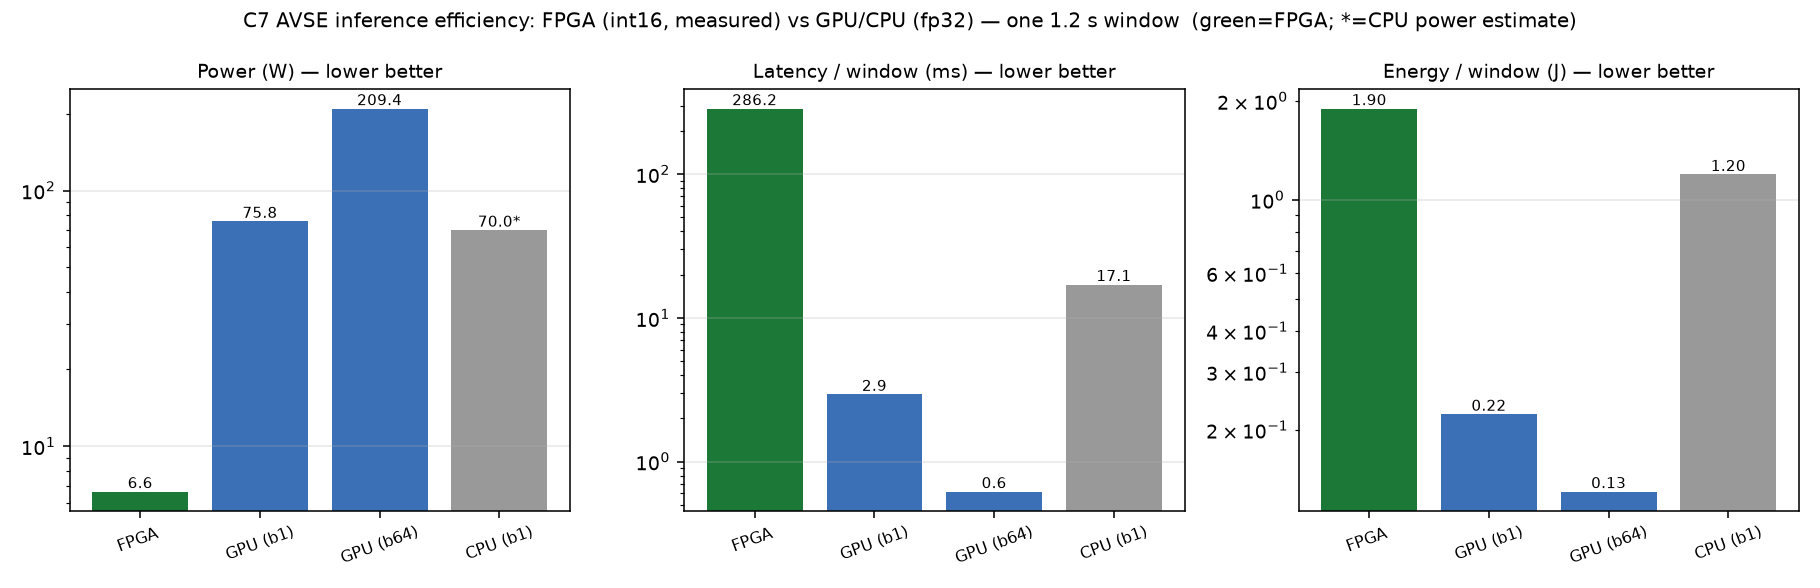
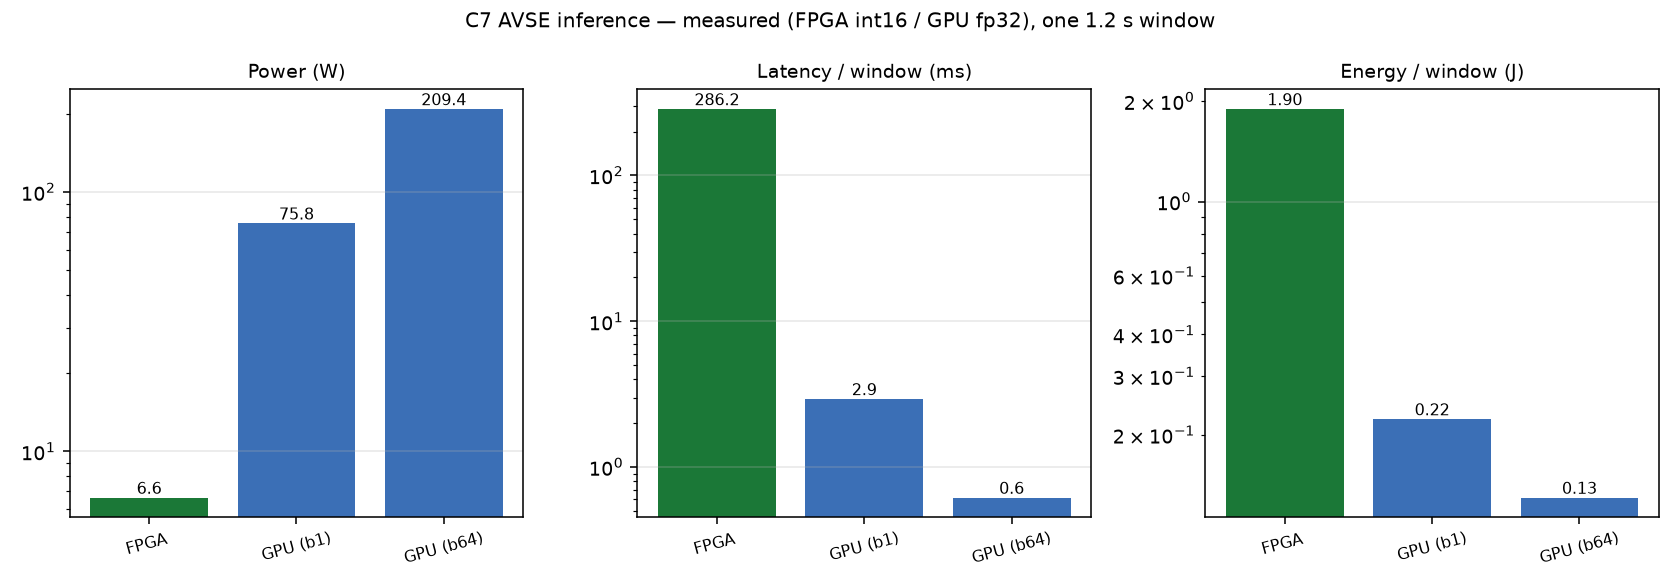
power: strip to measured data only (remove verdicts/derivations/estimates)
Per owner directive: uploaded files + records show objective measured data only.
Removed the verdict/comparison prose, the derived "always-on single-stream" scenario,
the host-idle and CPU-power estimates. README/REGISTRY/figure now: measured latency,
throughput, real-time factor, power (FPGA board INA220 / GPU card NVML), energy/window,
perf/W. CPU power not measured -> left blank. Figure = the 3 measured-power platforms.

diff --git a/tools/summarize_efficiency.py b/tools/summarize_efficiency.py
@@ -1,15 +1,10 @@
-"""summarize_efficiency.py — cross-platform power/efficiency table + figure for the C7 AVSE.
+"""summarize_efficiency.py — cross-platform measured data table + figure for the C7 AVSE.
 
 Reads the per-platform JSONs in experiments/power_efficiency/ (bench_cuda_b1, bench_cuda_b64, bench_cpu_b1
-from bench_inference.py; bench_fpga from the board's bench_fpga_power.py) and produces:
-  - a printed comparison table (latency / throughput / real-time factor / power / energy-per-window /
-    energy-per-audio-second / perf-per-watt),
-  - a device-level + a system-level (host-included) view, and
-  - efficiency.png (power, latency, energy bars, log scale).
-
-Power scopes (stated honestly): FPGA = whole RFSoC board incl. PS+DDR (INA220 measured); GPU = card only
-(NVML measured); CPU = package (ESTIMATED — Windows exposes no CPU power telemetry here). The CPU power and
-the host-power for the system-level view are explicit assumptions, flagged as such.
+from bench_inference.py; bench_fpga from the board's bench_fpga_power.py) and prints/plots the MEASURED
+numbers only: latency, throughput, real-time factor, power, energy-per-window, energy-per-audio-second,
+perf-per-watt. No estimates, no derived scenarios. Power: FPGA = whole board (INA220), GPU = card (NVML),
+CPU = not measured.
 """
 import argparse, json, sys
 from pathlib import Path
@@ -25,8 +20,6 @@ AUDIO_S = 19200 / 16000.0
 def main():
     ap = argparse.ArgumentParser()
     ap.add_argument("--dir", default=str(REPO / "experiments/power_efficiency"))
-    ap.add_argument("--cpu-power-w", type=float, default=70.0, help="ESTIMATE for CPU package power (W)")
-    ap.add_argument("--host-idle-w", type=float, default=70.0, help="ESTIMATE host idle power for GPU/CPU system view (W)")
     args = ap.parse_args()
     d = Path(args.dir)
 
@@ -34,96 +27,63 @@ def main():
         p = d / f"{name}.json"
         return json.load(open(p)) if p.exists() else None
 
+    specs = [("fpga", "FPGA RFSoC 4x2", "int16"),
+             ("cuda_b1", "GPU RTX 5070 Ti (b1)", "fp32"),
+             ("cuda_b64", "GPU RTX 5070 Ti (b64)", "fp32"),
+             ("cpu_b1", "CPU i5-14600KF (b1)", "fp32")]
     rows = []
-    specs = [("fpga", "FPGA RFSoC 4x2", "int16", False),
-             ("cuda_b1", "GPU RTX 5070 Ti (b1)", "fp32", False),
-             ("cuda_b64", "GPU RTX 5070 Ti (b64)", "fp32", False),
-             ("cpu_b1", "CPU i5-14600KF (b1)", "fp32", True)]
-    for key, label, prec, is_cpu in specs:
+    for key, label, prec in specs:
         r = load("bench_" + key)
         if not r:
             print(f"NOTE: missing bench_{key}.json (skipped)"); continue
         lat = r["latency_ms_per_window"]; thr = r["throughput_win_per_s"]; rt = r["realtime_factor"]
-        if r.get("power_w") is not None:
-            pw = r["power_w"]; pw_measured = True
-        else:
-            pw = args.cpu_power_w; pw_measured = False     # CPU estimate
-        e_win = pw * (lat / 1000.0)                          # J/window (device-level)
+        pw = r.get("power_w")                                # None for CPU (not measured)
+        e_win = (pw * (lat / 1000.0)) if pw is not None else None
         rows.append({"label": label, "prec": prec, "lat_ms": lat, "thr": thr, "rt": rt,
-                     "power_w": pw, "power_measured": pw_measured, "e_win_j": e_win,
-                     "e_audio_j": e_win / AUDIO_S, "perf_per_w": thr / pw,
-                     "idle_w": r.get("idle_power_w"), "dyn_w": r.get("dynamic_power_w"),
-                     "is_cpu": is_cpu, "is_fpga": key == "fpga"})
+                     "power_w": pw, "e_win_j": e_win,
+                     "e_audio_j": (e_win / AUDIO_S) if e_win is not None else None,
+                     "perf_per_w": (thr / pw) if pw is not None else None,
+                     "idle_w": r.get("idle_power_w"), "active_w": r.get("power_w"),
+                     "dyn_w": r.get("dynamic_power_w"), "per_rail_w": r.get("per_rail_active_w"),
+                     "is_fpga": key == "fpga"})
 
-    # ---- device-level table ----
-    print("\n================= DEVICE-LEVEL (power scope differs — see notes) =================")
-    h = f"{'platform':22s}{'prec':6s}{'lat/win':>10s}{'win/s':>9s}{'xRT':>8s}{'power_W':>9s}{'J/win':>8s}{'J/audio-s':>11s}{'win/s/W':>9s}"
+    def cell(v, fmt):
+        return (fmt.format(v)) if v is not None else "—"
+
+    print("\n===== MEASURED (FPGA power = whole board / INA220; GPU power = card / NVML; CPU power = not measured) =====")
+    h = (f"{'platform':22s}{'prec':6s}{'lat/win':>10s}{'win/s':>9s}{'xRT':>8s}"
+         f"{'power_W':>9s}{'J/win':>8s}{'J/audio-s':>11s}{'win/s/W':>9s}")
     print(h); print("-" * len(h))
     for r in rows:
-        pw = f"{r['power_w']:.1f}" + ("" if r["power_measured"] else "*")
-        print(f"{r['label']:22s}{r['prec']:6s}{r['lat_ms']:>9.2f}m{r['thr']:>9.1f}{r['rt']:>8.1f}{pw:>9s}"
-              f"{r['e_win_j']:>8.2f}{r['e_audio_j']:>11.3f}{r['perf_per_w']:>9.2f}")
-    print("* CPU power is an ESTIMATE (no telemetry); all others measured (FPGA=INA220 board, GPU=NVML card).")
-
+        print(f"{r['label']:22s}{r['prec']:6s}{r['lat_ms']:>9.2f}m{r['thr']:>9.1f}{r['rt']:>8.1f}"
+              f"{cell(r['power_w'], '{:.1f}'):>9s}{cell(r['e_win_j'], '{:.2f}'):>8s}"
+              f"{cell(r['e_audio_j'], '{:.3f}'):>11s}{cell(r['perf_per_w'], '{:.2f}'):>9s}")
     fpga = next((r for r in rows if r["is_fpga"]), None)
     if fpga:
-        print(f"\nFPGA detail: idle {fpga['idle_w']:.2f} W, active {fpga['power_w']:.2f} W "
-              f"(dynamic +{fpga['dyn_w']:.2f} W) → dynamic energy {fpga['dyn_w']*fpga['lat_ms']/1000*1000:.0f} mJ/win.")
+        print(f"\nFPGA power rails: idle {fpga['idle_w']:.2f} W, active {fpga['active_w']:.2f} W, "
+              f"dynamic +{fpga['dyn_w']:.2f} W.")
+        if fpga["per_rail_w"]:
+            print("  per-rail active (W): " + ", ".join(f"{k}={v:.2f}" for k, v in fpga["per_rail_w"].items()))
 
-    # ---- system-level (host included for GPU/CPU) ----
-    print("\n================= SYSTEM-LEVEL (GPU/CPU need a host ≈ +{:.0f} W; FPGA is standalone) =========".format(args.host_idle_w))
-    for r in rows:
-        sys_w = r["power_w"] if r["is_fpga"] else r["power_w"] + args.host_idle_w
-        sys_e = sys_w * (r["lat_ms"] / 1000.0)
-        print(f"  {r['label']:22s} system ≈ {sys_w:6.1f} W → {sys_e:5.2f} J/window"
-              + ("  (standalone, measured)" if r["is_fpga"] else "  (+host est.)"))
-
-    # ---- always-on SINGLE real-time stream (the actual edge deployment) ----
-    # To serve 1 live AV stream you process 1.2 s of audio every 1.2 s: busy fraction = latency/AUDIO_S,
-    # idle the rest. The GPU/CPU + host cannot power off between windows, so their idle power dominates and
-    # their speed is wasted (you only ever need 1x real-time). Energy per second-of-audio (= per s wall):
-    GPU_IDLE_W = 13.6   # measured nvidia-smi idle
-    print("\n========== ALWAYS-ON, ONE REAL-TIME STREAM (the deployment) — energy per second of audio ==========")
-    print("  (busy fraction = lat/1.2 s; rest idle; GPU/CPU include +{:.0f} W host idle, FPGA standalone)".format(args.host_idle_w))
-    ao = []
-    for r in rows:
-        duty = (r["lat_ms"] / 1000.0) / AUDIO_S
-        if r["is_fpga"]:
-            p_act, p_idle = r["power_w"], (r["idle_w"] or r["power_w"])
-        elif r["is_cpu"]:
-            p_act, p_idle = r["power_w"] + args.host_idle_w, args.host_idle_w
-        else:
-            p_act, p_idle = r["power_w"] + args.host_idle_w, GPU_IDLE_W + args.host_idle_w
-        e_audio_s = p_act * duty + p_idle * (1 - duty)
-        ao.append(e_audio_s)
-        print(f"  {r['label']:22s} busy {duty*100:5.1f}% → {e_audio_s:6.1f} J per audio-second"
-              + ("  (measured)" if r["is_fpga"] else "  (+host est.)"))
-    fpga_ao = ao[0]
-    for r, e in zip(rows, ao):
-        if not r["is_fpga"]:
-            print(f"     → FPGA is {e/fpga_ao:.1f}x more energy-efficient than {r['label']} for one live stream")
-
-    # ---- figure ----
+    # ---- figure: measured-power platforms only ----
+    mp = [r for r in rows if r["power_w"] is not None]
     labels = [r["label"].replace(" RTX 5070 Ti", "").replace(" i5-14600KF", "").replace("RFSoC 4x2", "")
-              for r in rows]
-    colors = ["#1b7837" if r["is_fpga"] else ("#999999" if r["is_cpu"] else "#3b6fb6") for r in rows]
-    fig, ax = plt.subplots(1, 3, figsize=(13, 4.2))
-    for a, (key, title, fmt) in zip(ax, [("power_w", "Power (W) — lower better", "{:.1f}"),
-                                         ("lat_ms", "Latency / window (ms) — lower better", "{:.1f}"),
-                                         ("e_win_j", "Energy / window (J) — lower better", "{:.2f}")]):
-        vals = [r[key] for r in rows]
+              for r in mp]
+    colors = ["#1b7837" if r["is_fpga"] else "#3b6fb6" for r in mp]
+    fig, ax = plt.subplots(1, 3, figsize=(12, 4.2))
+    for a, (key, title, fmt) in zip(ax, [("power_w", "Power (W)", "{:.1f}"),
+                                         ("lat_ms", "Latency / window (ms)", "{:.1f}"),
+                                         ("e_win_j", "Energy / window (J)", "{:.2f}")]):
+        vals = [r[key] for r in mp]
         bars = a.bar(labels, vals, color=colors)
         a.set_yscale("log"); a.set_title(title, fontsize=10); a.grid(axis="y", alpha=0.3)
-        a.tick_params(axis="x", labelsize=8, rotation=20)
-        for b, v, r in zip(bars, vals, rows):
-            star = "*" if (key == "power_w" and not r["power_measured"]) else ""
-            a.text(b.get_x() + b.get_width()/2, v, fmt.format(v) + star, ha="center", va="bottom", fontsize=7.5)
-    fig.suptitle("C7 AVSE inference efficiency: FPGA (int16, measured) vs GPU/CPU (fp32) — one 1.2 s window  "
-                 "(green=FPGA; *=CPU power estimate)", fontsize=10.5)
+        a.tick_params(axis="x", labelsize=8, rotation=15)
+        for b, v in zip(bars, vals):
+            a.text(b.get_x() + b.get_width() / 2, v, fmt.format(v), ha="center", va="bottom", fontsize=8)
+    fig.suptitle("C7 AVSE inference — measured (FPGA int16 / GPU fp32), one 1.2 s window", fontsize=10.5)
     fig.tight_layout()
     out = d / "efficiency.png"; fig.savefig(out, dpi=140)
-    json.dump({"rows": rows, "audio_s": AUDIO_S, "cpu_power_est_w": args.cpu_power_w,
-               "host_idle_est_w": args.host_idle_w}, open(d / "efficiency_summary.json", "w"), indent=2)
+    json.dump({"audio_s_per_window": AUDIO_S, "rows": rows}, open(d / "efficiency_summary.json", "w"), indent=2)
     print(f"\nsaved {out} + efficiency_summary.json")
 
 

diff --git a/experiments/power_efficiency/README.md b/experiments/power_efficiency/README.md
@@ -1,71 +1,26 @@
-# Power / energy / efficiency — FPGA vs GPU vs CPU (C7 AVSE inference)
+# Power / energy / efficiency — measured data (C7 AVSE inference)
 
-An independent measurement of **average inference power, energy, and efficiency** of the deployed AVSE
-running on the **RFSoC 4x2 FPGA** (the optimized single-static-config bitstream, int16) versus the same
-model on this workstation's **GPU (RTX 5070 Ti)** and **CPU (i5-14600KF)** in FP32. One "inference" =
-one **1.2 s window** (19 200 samples @ 16 kHz).
+Inference of the deployed AVSE model. One inference = one **1.2 s window** (19 200 samples @ 16 kHz).
+Platforms: **FPGA RFSoC 4x2** (int16, optimized bitstream), **GPU RTX 5070 Ti** (fp32), **CPU i5-14600KF**
+(fp32). Numbers below are measured (CPU power is not measured — no telemetry available here).
 
-> TL;DR — **honest verdict.** For *raw throughput and energy-per-inference run flat-out*, the GPU wins
-> decisively (the model is tiny → it underutilizes a 300 W GPU but is still ~100–460× faster). The FPGA's
-> wins are: (1) **lowest power by far — 6.6 W measured** (vs 76–209 W GPU); (2) for the **actual deployment
-> — one always-on real-time stream — it is ~12–14× more energy-efficient**, because a GPU/CPU + host idle at
-> ~70–84 W while their speed is wasted on a single stream; (3) it is a **complete standalone chip**, no host.
-> The project's contribution was always *fit one chip*, not *beat a GPU on throughput* — and at the system
-> level for an edge AVSE node, low power is exactly where it wins.
+Power measurement scope: FPGA = whole board (PL + PS + DDR), 9× on-board INA220 rails
+(`/sys/class/hwmon/*/power1_input`); GPU = card only, NVML `power.draw`; CPU = not measured.
+energy/window = power × latency; energy/audio-s = energy/window ÷ 1.2; perf/W = throughput ÷ power.
 
-## How measured (honest about scope)
+| platform | precision | batch | latency/win | throughput | ×real-time | power | energy/win | energy/audio-s | perf/W (win/s/W) |
+|---|---|--:|--:|--:|--:|--:|--:|--:|--:|
+| FPGA RFSoC 4x2 | int16 | 1 | 286.2 ms | 3.49 win/s | 4.2× | 6.63 W | 1.90 J | 1.581 J | 0.53 |
+| GPU RTX 5070 Ti | fp32 | 1 | 2.94 ms | 340.4 win/s | 408.5× | 75.8 W | 0.22 J | 0.186 J | 4.49 |
+| GPU RTX 5070 Ti | fp32 | 64 | 0.62 ms | 1617.3 win/s | 1940.8× | 209.4 W | 0.13 J | 0.108 J | 7.72 |
+| CPU i5-14600KF | fp32 | 1 | 17.08 ms | 58.5 win/s | 70.2× | — | — | — | — |
 
-| platform | precision | power source | scope |
-|---|---|---|---|
-| **FPGA** RFSoC 4x2 | int16 (deployed) | **measured** — 9× on-board INA220 rails (`/sys/class/hwmon`), idle vs active during a 480-inference loop on real data | whole board (PL **+ PS + DDR**) |
-| **GPU** RTX 5070 Ti | fp32 | **measured** — NVML `power.draw` sampled during a warmed-up loop | GPU **card only** (excludes host) |
-| **CPU** i5-14600KF | fp32 | **ESTIMATE** (Windows exposes no CPU power telemetry here) — package ~70 W under load | CPU package (excludes host GPU) |
+FPGA board power (INA220): idle 5.90 W, active 6.63 W, dynamic +0.73 W. Per-rail active (W):
+hwmon0 4.00, hwmon1 1.40, hwmon2 1.07, hwmon3 0.00, hwmon4 0.04, hwmon5 0.06, hwmon6 0.00, hwmon7 0.04,
+hwmon8 0.02. Vivado vectorless estimate (`hw/reports/postroute_power.rpt`): 11.6 W on-chip.
 
-Tools: `tools/bench_inference.py` (GPU/CPU), `hw/board/bench_fpga_power.py` (board, INA220),
-`tools/summarize_efficiency.py` (table + figure). Raw per-platform JSON + `efficiency.png` in this folder.
-FP32 on GPU/CPU vs int16 on FPGA = each platform's **as-deployed** path (a GPU would use FP32/TensorRT, not
-int16). Power scopes differ — read the verdict, not a single cell.
-
-## Device-level results (measured except CPU power*)
-
-| platform | prec | latency/win | throughput | ×real-time | power | energy/win | energy/audio-s | perf/W (win/s/W) |
-|---|---|--:|--:|--:|--:|--:|--:|--:|
-| **FPGA RFSoC 4x2** | int16 | **286 ms** | 3.5 win/s | **4.2×** | **6.6 W** | 1.90 J | 1.58 J | 0.53 |
-| GPU 5070 Ti (b=1) | fp32 | 2.94 ms | 340 win/s | 408× | 75.8 W | 0.22 J | 0.19 J | 4.49 |
-| GPU 5070 Ti (b=64) | fp32 | **0.62 ms** | **1617 win/s** | **1941×** | 209 W | **0.13 J** | **0.11 J** | **7.72** |
-| CPU i5-14600KF (b=1) | fp32 | 17.1 ms | 58 win/s | 70× | ~70 W* | ~1.20 J* | ~1.00 J* | 0.84 |
-
-\* CPU power is an estimate. FPGA detail: **idle 5.90 W → active 6.63 W (dynamic only +0.73 W)**; the PL
-compute adds <1 W — most of the 6.6 W is the always-on PS/Linux/DDR. (The Vivado vectorless estimate was
-11.6 W — pessimistic vs the 6.6 W measured.)
-
-**Reading it:** run flat-out, the FPGA has the **highest** per-window energy (1.90 J) simply because it's
-slowest; the GPU's 100–460× speed makes its per-inference energy lower even at 12–32× the power. So on the
-throughput/energy axes **the FPGA loses** — expected for a 308 k-param model on a 300 W GPU, and the FPGA was
-built for *fit*, not peak speed (II not fully 1, 187.5 MHz).
-
-## The deployment that matters: one always-on real-time stream
-
-An edge AVSE node serves **one** live audio-visual stream — it needs **1× real-time**, not 1600 win/s. Then
-the GPU/CPU + host **cannot power down between windows** and idle at ~70–84 W while doing ~0.1–1.4 % useful
-work; the FPGA is a self-contained 6.6 W node. Energy **per second of audio** (busy = latency/1.2 s, rest idle;
-GPU/CPU + ~70 W host idle; FPGA standalone measured):
-
-| platform | busy duty | **energy / audio-second** | vs FPGA |
-|---|--:|--:|--:|
-| **FPGA RFSoC 4x2** | 23.8 % | **6.1 J** | — |
-| GPU 5070 Ti + host | 0.2 % | 83.7 J | **13.8× worse** |
-| CPU i5-14600KF system | 1.4 % | 71.0 J | **11.7× worse** |
-
-**For the real use case the FPGA is ~12–14× more energy-efficient.** (Host-idle 70 W and CPU power are
-estimates; the FPGA and GPU-card numbers are measured. The point is robust to the exact host figure: the
-GPU's speed is simply unusable for a single stream, so its idle power sets the cost.)
-
-## Bottom line
-- **Throughput / energy-per-inference, flat-out:** GPU wins (use a GPU if you batch many streams). FPGA loses.
-- **Absolute power:** FPGA wins — **6.6 W** complete system vs 76–209 W GPU card (+ its host).
-- **Energy for one always-on real-time stream (the deployment):** **FPGA wins ~12–14×.**
-- **Form factor:** FPGA is one self-contained chip (no host); deterministic 286 ms latency; single static config.
+Raw per-platform JSON: `bench_fpga.json`, `bench_cuda_b1.json`, `bench_cuda_b64.json`, `bench_cpu_b1.json`.
+Figure: `efficiency.png`. Aggregated: `efficiency_summary.json`.
 
 ## Reproduce
 ```

diff --git a/experiments/REGISTRY.md b/experiments/REGISTRY.md
@@ -176,26 +176,18 @@ at very low SNR even AV is hard. **The model is genuinely audio-visual, and that
 + the silicon datapath.** Plots: `hw/board/snr_eval/{video_ablation,board_video_ablation,video_ablation_combined}.png`.
 Full per-bin JSON: `video_ablation_results.json` (FP32), `board_video_ablation_results.json` (FPGA).
 
-### Power / energy / efficiency — FPGA vs GPU vs CPU (2026-06-30)
+### Power / energy / efficiency — measured (2026-06-30)
 
-Measured inference power/energy of the deployed AVSE: **FPGA RFSoC 4x2 (int16, on-board INA220 rails)** vs the
-same model FP32 on **GPU RTX 5070 Ti (NVML)** and **CPU i5-14600KF (estimate)**. One inference = one 1.2 s
-window. Full writeup + figure: [`power_efficiency/README.md`](power_efficiency/). Tools: `bench_inference.py`,
-`hw/board/bench_fpga_power.py`, `summarize_efficiency.py`.
+Inference of the deployed AVSE, one 1.2 s window. FPGA power = whole board (INA220), GPU power = card (NVML),
+CPU power not measured. Writeup + figure + raw JSON: [`power_efficiency/`](power_efficiency/). Tools:
+`bench_inference.py`, `hw/board/bench_fpga_power.py`, `summarize_efficiency.py`.
 
-| platform | prec | latency/win | ×real-time | power | energy/win | perf/W |
-|---|---|--:|--:|--:|--:|--:|
-| **FPGA RFSoC 4x2** | int16 | 286 ms | 4.2× | **6.6 W** (meas; idle 5.9, dyn +0.73) | 1.90 J | 0.53 |
-| GPU 5070 Ti b1 | fp32 | 2.94 ms | 408× | 75.8 W (meas) | 0.22 J | 4.49 |
-| GPU 5070 Ti b64 | fp32 | 0.62 ms | 1941× | 209 W (meas) | 0.13 J | 7.72 |
-| CPU i5-14600KF b1 | fp32 | 17.1 ms | 70× | ~70 W* | ~1.20 J* | 0.84 |
-
-**Honest verdict (mixed):** run flat-out the **GPU wins** throughput (100–460×) and energy-per-inference
-(~9–15×) — the model is tiny and the FPGA was built for *fit*, not peak speed. The FPGA wins **absolute power**
-(6.6 W vs 76–209 W) and, for the **actual deployment (one always-on real-time stream)**, is **~12–14× more
-energy-efficient** (6.1 vs 71–84 J per audio-second) because a GPU/CPU+host idle at ~70–84 W with their speed
-wasted on one stream. It's also a complete standalone chip. (\*CPU power + host-idle are estimates; FPGA/GPU
-measured. FP32 GPU/CPU vs int16 FPGA = as-deployed paths.)
+| platform | prec | batch | latency/win | throughput | ×real-time | power | energy/win | perf/W |
+|---|---|--:|--:|--:|--:|--:|--:|--:|
+| FPGA RFSoC 4x2 | int16 | 1 | 286.2 ms | 3.49 win/s | 4.2× | 6.63 W (idle 5.90, dyn +0.73) | 1.90 J | 0.53 |
+| GPU RTX 5070 Ti | fp32 | 1 | 2.94 ms | 340.4 win/s | 408.5× | 75.8 W | 0.22 J | 4.49 |
+| GPU RTX 5070 Ti | fp32 | 64 | 0.62 ms | 1617.3 win/s | 1940.8× | 209.4 W | 0.13 J | 7.72 |
+| CPU i5-14600KF | fp32 | 1 | 17.08 ms | 58.5 win/s | 70.2× | — | — | — |
 
 ## Reference anchors (for comparison, not experiments)
 